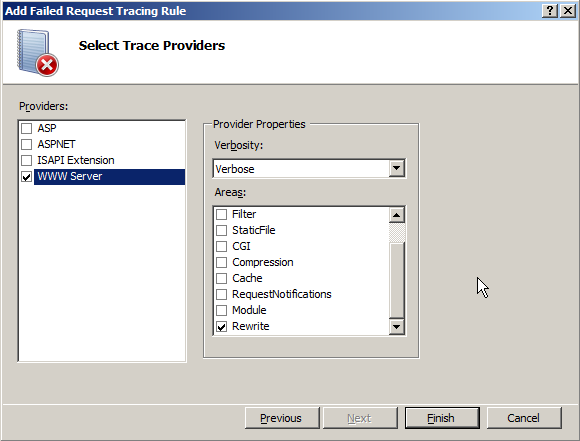
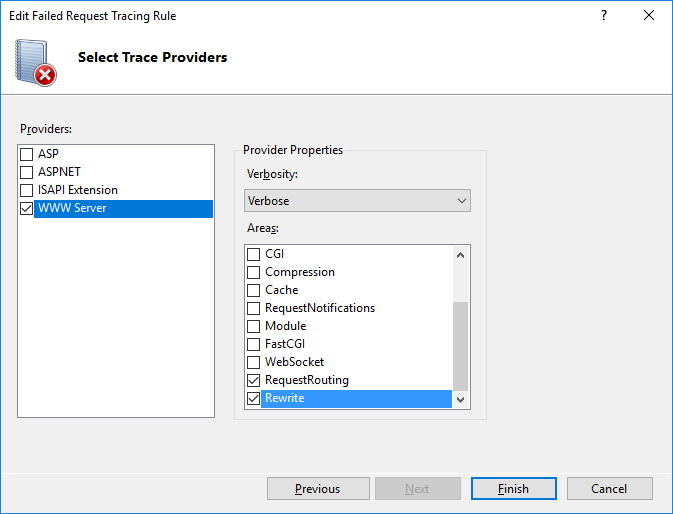
Finish and publish the post

diff --git a/_posts/2018-05-21-debugging-iis-rewrite-rules.md b/_posts/2018-05-21-debugging-iis-rewrite-rules.md
@@ -1,7 +1,7 @@
 ---
 layout: post
 title: Debugging IIS Rewrite Rules
-published: false
+published: true
 ---
 
 Where I work we have a number of ASP.NET web applications that run different parts of our site so that we can have some segregation of code and containment of scope without just having an enormous monolithic project that holds everything intermingled together. It's nothing too exciting technically, but the marketing department also needs to be able to present the entire site as a whole to visitors, and the Google Bot, for that sweet sweet SEO juice (and easier navigation and other less cynical reasons I'm sure). The way we achieve that is with prodigious use of the IIS URL Rewrite engine, which allows us to create a set of rules that take the incoming HTTP requests and either route them through to different web applications, or different virtual paths, or stop some in their tracks entirely.
@@ -14,7 +14,7 @@ Fortunately there is a way to debug the rules, or at least get logging out of th
 
 The answer lies in the IIS Failed Request Tracing feature and the fact that it is possible to configure it to trace successful requests just as easily as failed ones. The feature can be access through the IIS manager or the configuration can be specified in the `web.config` file of your application.
 
-![Failed Request Tracing](../images/posts/FRT.png)
+![Failed Request Tracing](https://wengier.com/images/posts/frt.png)
 
 The module itself has quite a nice wizard to guide you through setting up a new rule, however to debug rewrites in the way that I want to, its a little unintuitive so I'll detail exactly what I did.
 
@@ -22,7 +22,7 @@ The first step is straight forward enough, where you select which filenames you 
 
 The second screen is where the real magic happens:
 
-![Failed Request Tracing Step 2](../images/posts/frt-step-2.png)
+![Failed Request Tracing Step 2](https://wengier.com/images/posts/frt-step-2.png)
 
 The first input option here is to specify which HTTP status codes should be traced, and this is where we flip the "failure" title on its head. By specifying a successful code here (ie, 2xx or 3xx) we get tracing for successful requests and not just failed ones.
 
@@ -30,6 +30,35 @@ Depending on how much logging you want happening, you could narrow this down to 
 
 If the requests you're trying to trace are getting through to your site and resulting in errors or bad URLs you also might want to add in `404` and `500` to the list.
 
-![Failed Request Tracing Step 3](../images/posts/frt-step-3.png)
+![Failed Request Tracing Step 3](https://wengier.com/images/posts/frt-step-3.png)
 
 The 3rd screen allows for the selection of which IIS modules you want to trace so in order to keep some of the noise out of the log its best to untick everything except `Rewrite` and `RequestRouting`. Leave the verbosity at verbose, mainly because its fun to say "verbose verbosity".
+
+And thats it, you're all configured. You can also configure the equivalent of all of this in the web.config file with the follow config:
+
+```xml
+<tracing>
+	<traceFailedRequests>
+	<add path="*">
+		<traceAreas>
+		<add provider="WWW Server" areas="Rewrite,RequestRouting" verbosity="Verbose" />
+		</traceAreas>
+		<failureDefinitions timeTaken="00:00:00" statusCodes="200-399" />
+	</add>
+	</traceFailedRequests>
+</tracing>
+```
+
+Finally make sure the feature itself is enabled by clicking "Edit Site Tracing..." from the right hand bar and tick the Enabled checkbox. If it's already enabled then great, but the screen is still useful to grab the path to the log files, which by default is `%SystemDrive%\inetpub\logs\FailedReqLogFiles`.
+
+## Looking at the log files
+
+The Failed Request Tracing module logs to XML files which I definitely don't recommend looking at in raw form. Fortunately IIS also generates an XSL file for you which nicely formats the logs into something vaguely readable. I've found the easiest way to view the logs is simply to open the XML file in Internet Explorer (yes, I know) as that will automatically find and apply the xsl file, whereas Chrome did not.
+
+The logs themselves are quite verbose, as we requested:
+
+![Failed Request Tracing Sample Log](https://wengier.com/images/posts/frt-output.png)
+
+You'll see the output for each rule you have in your rewrite configuration, you can see the input values and the patterns matched against. You can see whether each on succeeded, though its worth noting that you need to apply the `negate` value yourself so a negative rule might say "Succeeded: false" and you have to remember that that means the rule as you wrote it did in fact match.
+
+Hopefully after trawling through the file you can work out what is going on, though personally I found it easier to search the file for the rule you think is probably at fault, rather than scanning through them all, but I'm coming from a codebase with a _lot_ of rules.
